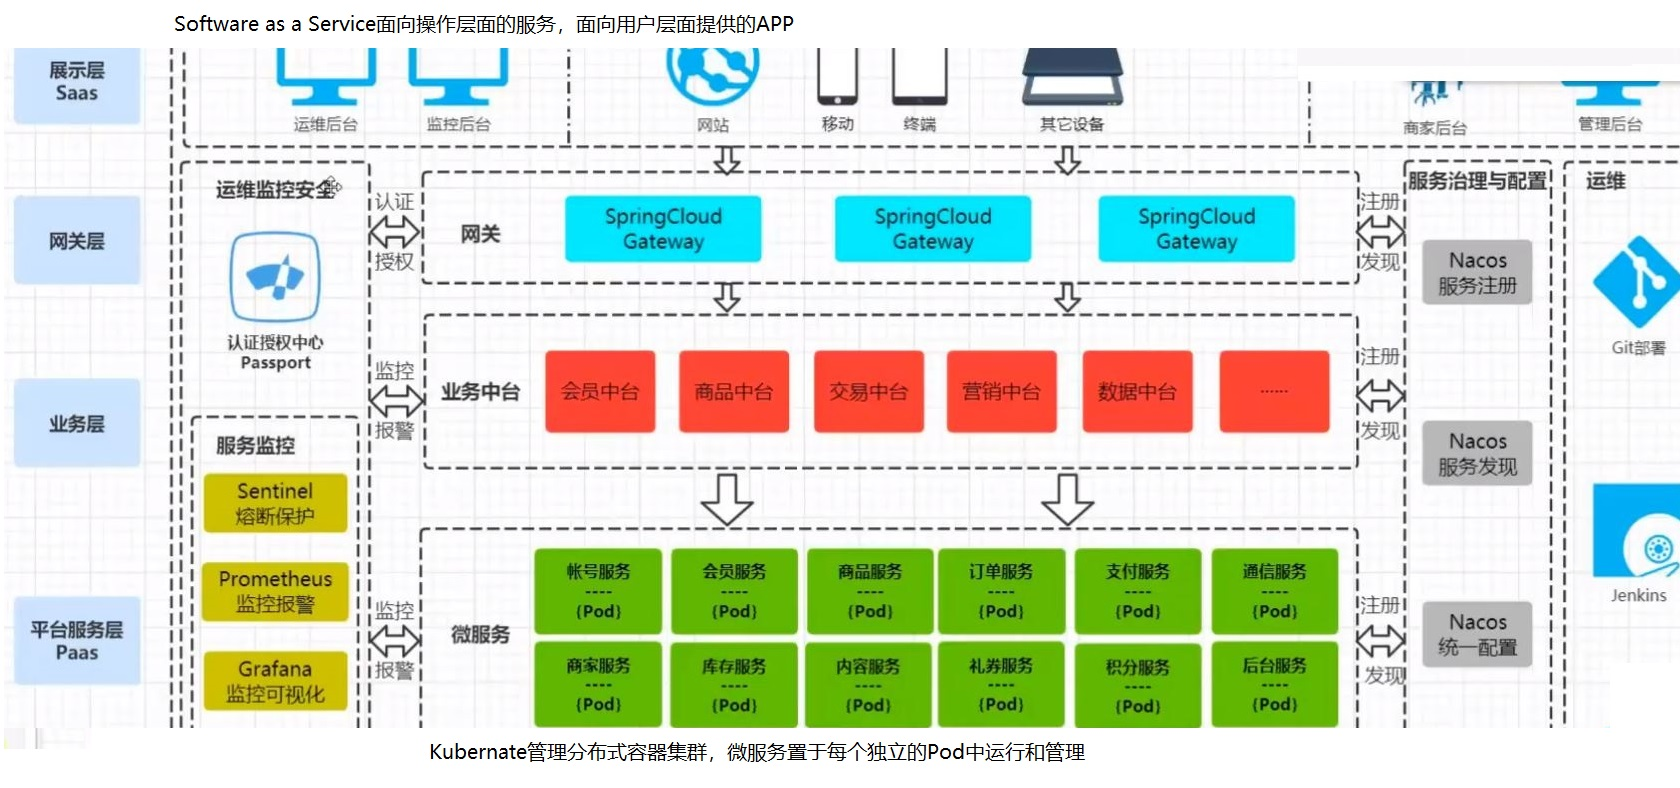
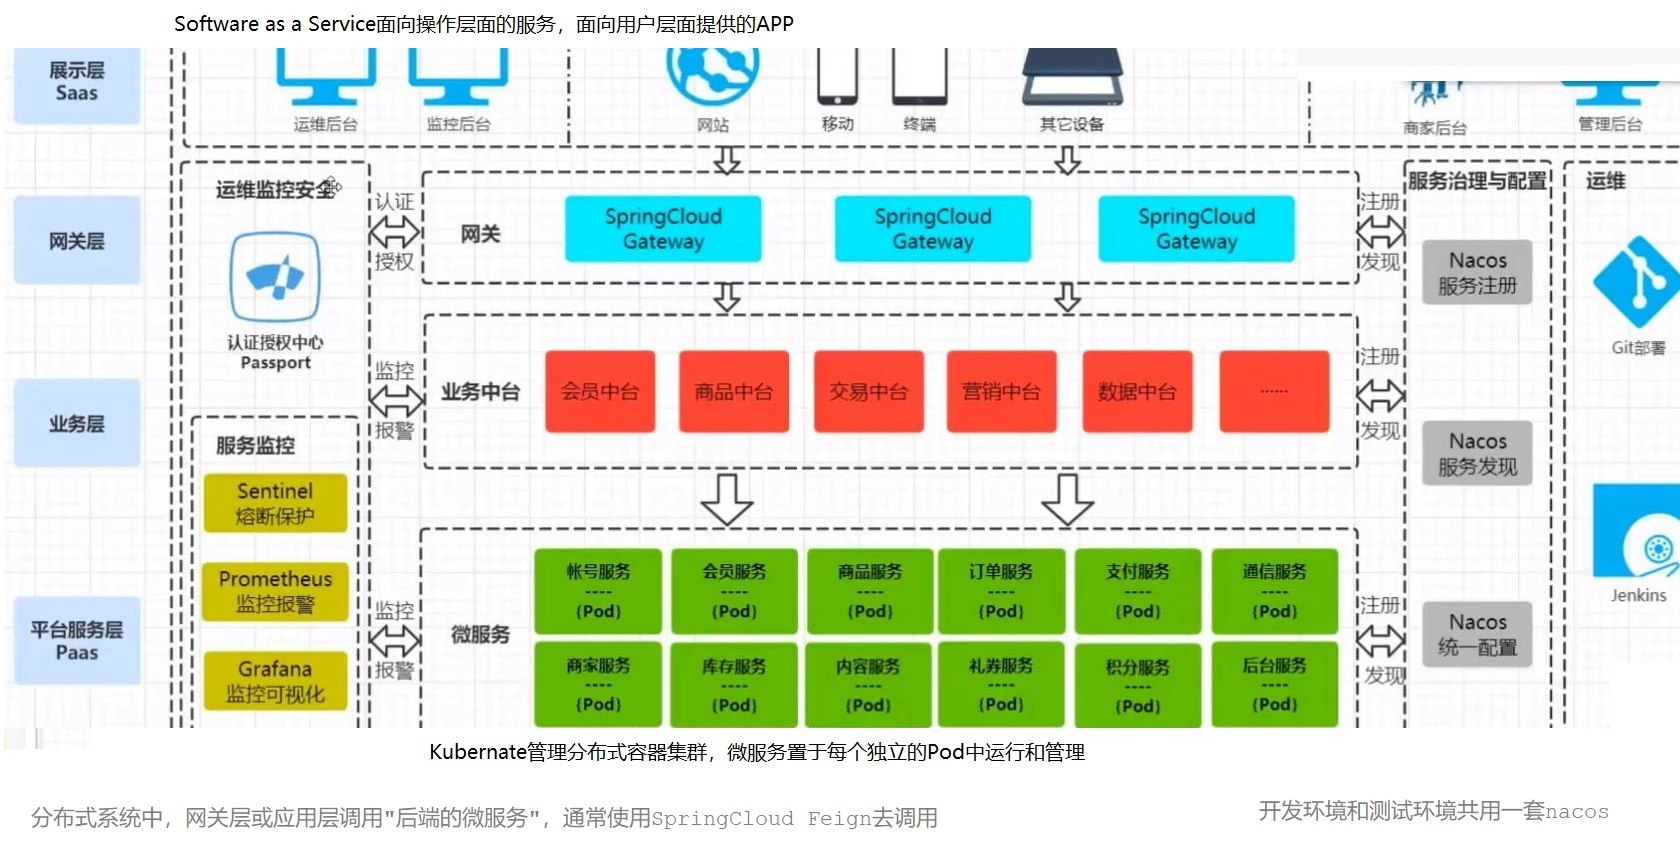
refresh spring cloud feigh clientÃ

diff --git a/spring-cloud-frameworks/spring-cloud-openfeign/src/main/java/com/springcloud/openfeign/SpringCloudFeignClientApplication.java b/spring-cloud-frameworks/spring-cloud-openfeign/src/main/java/com/springcloud/openfeign/SpringCloudFeignClientApplication.java
@@ -1,25 +1,15 @@
 package com.springcloud.openfeign;
 
-import com.springcloud.openfeign.authorization.AuthorizationFeignClient;
-import com.springcloud.openfeign.authorization.DefaultAuthorizationClient;
-import com.springcloud.openfeign.authorization.DefaultAuthorizationFeignClient;
+import com.springcloud.openfeign.client.authorization.AuthorizationFeignClient;
+import com.springcloud.openfeign.client.authorization.DefaultAuthorizationClient;
+import com.springcloud.openfeign.client.authorization.DefaultAuthorizationFeignClient;
 import org.springframework.beans.factory.annotation.Autowired;
 import org.springframework.boot.SpringApplication;
 import org.springframework.boot.autoconfigure.SpringBootApplication;
 import org.springframework.cloud.openfeign.EnableFeignClients;
-import org.springframework.cloud.openfeign.FeignClientBuilder;
-import org.springframework.context.ApplicationContext;
 import org.springframework.context.annotation.Bean;
 
-// TODO. Enable component scanning for interfaces that declare they are Feign clients
-//  通过添加注解来自动"注入"所有标记了@FeignClient("authz")注解class(interface)
-// 查看该类型的源码 FeignClientFactoryBean feignClientFactoryBean
-// https://docs.spring.io/spring-cloud-openfeign/docs/current/reference/html/
-
-// 分布式系统中，网关层或应用层调用"后端的微服务"，通常使用SpringCloud Feign去调用，简单方便
-// 开发环境和测试环境共用一套nacos
-// https://icode.best/i/03263743301620 feign根据环境动态指定服务名
-
+// @EnableFeignClients 注解自动"注入"所有标记@FeignClient注解的类型
 @SpringBootApplication
 @EnableFeignClients
 public class SpringCloudFeignClientApplication {
@@ -28,17 +18,10 @@ public class SpringCloudFeignClientApplication {
         SpringApplication.run(SpringCloudFeignClientApplication.class, args);
     }
 
-    // 创建指定类型的Feign Client, 通过调用方法来发送请求
-    private static void test(ApplicationContext applicationContext) {
-        FeignClientBuilder clientBuilder = new FeignClientBuilder(applicationContext);
-        DefaultAuthorizationClient feignClient = clientBuilder
-                .forType(DefaultAuthorizationClient.class, "testClient")
-                .url("base url for the request")
-                // .fallback()
-                .build();
-        feignClient.checkPermission("", "", "");
-    }
-
+    // TODO. 隐藏Request Mapping背后的逻辑
+    // 1. AuthorizationFeignClient会被自动注入到Spring IoC中
+    // 2. 通过Autowired从Spring IoC中获取bean之后赋值给自定义的类型实例，并注入
+    // 3. 在应用中可以直接通过DefaultAuthorizationClient.checkPermission()来调用背后隐藏的@PostMapping()
     @Bean
     @Autowired
     DefaultAuthorizationClient createDefaultAuthorizationClient(AuthorizationFeignClient feignClient) {

diff --git a/spring-cloud-frameworks/spring-cloud-openfeign/src/main/java/com/springcloud/openfeign/config/MyRouteTargeter.java b/spring-cloud-frameworks/spring-cloud-openfeign/src/main/java/com/springcloud/openfeign/config/MyRouteTargeter.java
@@ -1,0 +1,68 @@
+package com.springcloud.openfeign.config;
+
+import feign.Feign;
+import feign.Request;
+import feign.RequestTemplate;
+import feign.Target;
+import org.springframework.cloud.openfeign.FeignClientFactoryBean;
+import org.springframework.cloud.openfeign.FeignContext;
+import org.springframework.cloud.openfeign.Targeter;
+import org.springframework.core.env.Environment;
+
+public class MyRouteTargeter implements Targeter {
+
+    private Environment environment;
+
+    public MyRouteTargeter(Environment environment) {
+        this.environment = environment;
+    }
+
+    // 服务名以本字符串结尾的，会被置换为实现定位到环境
+    public static final String CLUSTER_ID_SUFFIX = "env";
+    // 新的服务名后缀名称需要从Environment中动态的获取
+    public static final String CLUSTER_ID_SUFFIX_NEW = "env-new";
+
+    @Override
+    public <T> T target(FeignClientFactoryBean factory,
+                        Feign.Builder feign,
+                        FeignContext context,
+                        Target.HardCodedTarget<T> target) {
+        return feign.target(new RouteTarget<>(target));
+    }
+
+    public static class RouteTarget<T> implements Target<T> {
+        private Target<T> realTarget;
+
+        public RouteTarget(Target<T> realTarget) {
+            super();
+            this.realTarget = realTarget;
+        }
+
+        @Override
+        public Class<T> type() {
+            return realTarget.type();
+        }
+
+        @Override
+        public String name() {
+            return realTarget.name();
+        }
+
+        @Override
+        public String url() {
+            String url = realTarget.url();
+            if (url.endsWith(CLUSTER_ID_SUFFIX)) {
+                url = url.replace(CLUSTER_ID_SUFFIX, CLUSTER_ID_SUFFIX_NEW);
+            }
+            return url;
+        }
+
+        @Override
+        public Request apply(RequestTemplate input) {
+            if (input.url().indexOf("http") != 0) {
+                input.target(url());
+            }
+            return input.request();
+        }
+    }
+}

diff --git a/spring-cloud-frameworks/spring-cloud-openfeign/src/main/java/com/springcloud/openfeign/config/OpenFeignClientConfiguration.java b/spring-cloud-frameworks/spring-cloud-openfeign/src/main/java/com/springcloud/openfeign/config/OpenFeignClientConfiguration.java
@@ -1,0 +1,52 @@
+package com.springcloud.openfeign.config;
+
+import feign.RequestInterceptor;
+import feign.RequestTemplate;
+import feign.auth.BasicAuthRequestInterceptor;
+import org.springframework.beans.factory.annotation.Autowired;
+import org.springframework.context.annotation.Bean;
+import org.springframework.context.annotation.Configuration;
+import org.springframework.core.env.Environment;
+
+@Configuration
+public class OpenFeignClientConfiguration {
+
+    @Autowired
+    private Environment environment;
+
+    // All the requests will contain the basic authentication header.
+    @Bean
+    public BasicAuthRequestInterceptor basicAuthRequestInterceptor() {
+        return new BasicAuthRequestInterceptor("username", "password");
+    }
+
+    // RequestInterceptor统一拦截请求来完成设置header等相关请求
+    // 实现URL基于环境的动态配置
+    @Bean
+    public RequestInterceptor requestInterceptor() {
+        return new RequestInterceptor() {
+            @Override
+            public void apply(RequestTemplate template) {
+                String url = template.url();
+                if (url.contains("$env")) {
+                    url = url.replace("$env", route(template));
+                    template.uri(url);
+                }
+                if (url.startsWith("//")) {
+                    url = "http:" + url;
+                    template.target(url);
+                    template.uri("");
+                }
+            }
+
+            private CharSequence route(RequestTemplate template) {
+                return environment.getProperty("feign.env");
+            }
+        };
+    }
+
+    @Bean
+    public MyRouteTargeter getRouteTargeter(Environment environment) {
+        return new MyRouteTargeter(environment);
+    }
+}

diff --git a/spring-cloud-frameworks/spring-cloud-openfeign/src/main/java/com/springcloud/openfeign/client/JsonPlaceHolderInterface.java b/spring-cloud-frameworks/spring-cloud-openfeign/src/main/java/com/springcloud/openfeign/client/JsonPlaceHolderInterface.java
@@ -1,17 +1,20 @@
-package com.springcloud.openfeign.demo;
+package com.springcloud.openfeign.client;
 
 import org.springframework.cloud.openfeign.FeignClient;
+import org.springframework.web.bind.annotation.GetMapping;
 import org.springframework.web.bind.annotation.PathVariable;
 import org.springframework.web.bind.annotation.RequestMapping;
 import org.springframework.web.bind.annotation.RequestMethod;
 
-// TODO. FeignClient客户端提供配置信息 ==> 和使用FeignClientBuilder构建的一致
-// 1. each Feign client is composed of a set of customizable components.
+// FeignClient客户端提供配置信息, 于FeignClientBuilder构建方式一致
+// 1. Each Feign client is composed of a set of customizable components.
 // 2. For each Feign client, a logger is created by default.
-// 3. (configuration = MyClientConfiguration.class) 可以自定义配置
-
 @FeignClient(value = "testClient", url = "https://localhost:8080/")
-public interface JSONPlaceHolderFeignClient {
+public interface JsonPlaceHolderInterface {
+
+    // 推荐使用指定类型的Mapping注解
+    @GetMapping(value = "/value")
+    String getValues();
 
     @RequestMapping(method = RequestMethod.GET, value = "/data")
     String getResponseData();

diff --git a/spring-cloud-frameworks/spring-cloud-openfeign/src/main/java/com/springcloud/openfeign/builder/MyDyFeignClientFactoryController.java b/spring-cloud-frameworks/spring-cloud-openfeign/src/main/java/com/springcloud/openfeign/builder/MyDyFeignClientFactoryController.java
@@ -1,0 +1,23 @@
+package com.springcloud.openfeign.builder;
+
+import org.springframework.beans.factory.annotation.Autowired;
+import org.springframework.web.bind.annotation.RequestMapping;
+import org.springframework.web.bind.annotation.RequestParam;
+import org.springframework.web.bind.annotation.RestController;
+
+@RestController
+@RequestMapping(value = "/query")
+public class MyDyFeignClientFactoryController {
+
+    @Autowired
+    DynamicFeignClientFactory<BaseRemoteApi> clientFactory;
+
+    // 在获取FeignClient的时候通过FeignClientBuilder动态的设置service名称
+    @RequestMapping("/userinfo")
+    public String query(@RequestParam(value = "gid") String gid) {
+        String service_location = "get correct service id";
+        BaseRemoteApi api = clientFactory.getFeignClient(BaseRemoteApi.class, service_location);
+        return api.info(gid);
+    }
+
+}

diff --git a/spring-cloud-frameworks/spring-cloud-openfeign/src/main/java/com/springcloud/openfeign/client/MyCallbackInterface.java b/spring-cloud-frameworks/spring-cloud-openfeign/src/main/java/com/springcloud/openfeign/client/MyCallbackInterface.java
@@ -1,4 +1,4 @@
-package com.springcloud.openfeign.client.callback;
+package com.springcloud.openfeign.client;
 
 import org.springframework.cloud.openfeign.FeignClient;
 import org.springframework.web.bind.annotation.RequestMapping;
@@ -7,10 +7,7 @@ import org.springframework.web.bind.annotation.RequestMethod;
 // fallback: a default code path that is executed when the circuit is open or there is an error.
 // 1. set the fallback attribute to the class name that implements the fallback.
 // 2. declare your implementation as a Spring bean
-@FeignClient(
-        name = "test",
-        url = "http://localhost:${server.port}/",
-        fallback = MyCallback.class)
+@FeignClient(name = "test", url = "http://localhost:${server.port}/", fallback = MyCallback.class)
 public interface MyCallbackInterface {
 
     @RequestMapping(method = RequestMethod.GET, value = "/hello")

diff --git a/spring-cloud-frameworks/spring-cloud-openfeign/src/main/java/com/springcloud/openfeign/client/authorization/AuthorizationFeignClient.java b/spring-cloud-frameworks/spring-cloud-openfeign/src/main/java/com/springcloud/openfeign/client/authorization/AuthorizationFeignClient.java
@@ -1,4 +1,4 @@
-package com.springcloud.openfeign.authorization;
+package com.springcloud.openfeign.client.authorization;
 
 import org.springframework.cloud.openfeign.FeignClient;
 import org.springframework.http.MediaType;
@@ -10,11 +10,10 @@ import org.springframework.web.bind.annotation.RequestHeader;
 @FeignClient("authz")
 public interface AuthorizationFeignClient {
 
-    // TODO. produces指要提供的数据格式，consumes指返回的消费数据格式
+    // produces指要提供的数据格式，consumes指返回的消费数据格式
     @PostMapping(path = "/permissions/check",
             consumes = MediaType.APPLICATION_JSON_VALUE,
             produces = MediaType.APPLICATION_JSON_VALUE)
     boolean checkPermission(@RequestHeader("Authorization") String authorizationHeader,
                             @RequestBody String permissionRequest);
-
 }

diff --git a/spring-cloud-frameworks/spring-cloud-openfeign/src/main/java/com/springcloud/openfeign/config/FooFeignClient.java b/spring-cloud-frameworks/spring-cloud-openfeign/src/main/java/com/springcloud/openfeign/config/FooFeignClient.java
@@ -1,0 +1,19 @@
+package com.springcloud.openfeign.config;
+
+import org.springframework.cloud.openfeign.FeignClient;
+import org.springframework.web.bind.annotation.GetMapping;
+import org.springframework.web.bind.annotation.PathVariable;
+
+// 基于不同的环境Env动态的修改请的URL路径 ?
+// 1. 通过RequestInterceptor拦截器来统一设置，对于上线的URL成本较大
+// 2. 通过重写RouteTargeter来实现，必须考虑版本的约束
+// 3. 使用DynamicFeignClientFactory动态的构建出指定的feignClient
+@FeignClient(name = "feign-provider")
+public interface FooFeignClient {
+
+    @GetMapping(value = "//feign-provider-$env/foo/{username}")
+    String foo1(@PathVariable("username") String username);
+
+    @GetMapping(value = "/foo/{username}")
+    String foo2(@PathVariable("username") String username);
+}

diff --git a/spring-cloud-frameworks/spring-cloud-openfeign/src/main/java/com/springcloud/openfeign/builder/BaseFeignClientBuilder.java b/spring-cloud-frameworks/spring-cloud-openfeign/src/main/java/com/springcloud/openfeign/builder/BaseFeignClientBuilder.java
@@ -1,0 +1,18 @@
+package com.springcloud.openfeign.builder;
+
+import com.springcloud.openfeign.client.authorization.DefaultAuthorizationClient;
+import org.springframework.cloud.openfeign.FeignClientBuilder;
+import org.springframework.context.ApplicationContext;
+
+public class BaseFeignClientBuilder {
+
+    // 创建指定类型的Feign Client, 通过调用方法来发送请求
+    private static void test(ApplicationContext applicationContext) {
+        FeignClientBuilder clientBuilder = new FeignClientBuilder(applicationContext);
+        DefaultAuthorizationClient feignClient = clientBuilder
+                .forType(DefaultAuthorizationClient.class, "testClient")
+                .url("base url for the request")
+                .build();
+        feignClient.checkPermission("", "", "");
+    }
+}

diff --git a/spring-cloud-frameworks/spring-cloud-openfeign/src/main/java/com/springcloud/openfeign/builder/DynamicFeignClientFactory.java b/spring-cloud-frameworks/spring-cloud-openfeign/src/main/java/com/springcloud/openfeign/builder/DynamicFeignClientFactory.java
@@ -1,0 +1,19 @@
+package com.springcloud.openfeign.builder;
+
+import org.springframework.cloud.openfeign.FeignClientBuilder;
+import org.springframework.context.ApplicationContext;
+import org.springframework.stereotype.Component;
+
+@Component
+public class DynamicFeignClientFactory<T> {
+
+    private FeignClientBuilder feignClientBuilder;
+
+    public DynamicFeignClientFactory(ApplicationContext appContext) {
+        this.feignClientBuilder = new FeignClientBuilder(appContext);
+    }
+
+    public T getFeignClient(final Class<T> type, String serviceId) {
+        return this.feignClientBuilder.forType(type, serviceId).build();
+    }
+}

diff --git a/spring-cloud-frameworks/spring-cloud-openfeign/src/main/java/com/springcloud/openfeign/retryer/RetryableFeignClient.java b/spring-cloud-frameworks/spring-cloud-openfeign/src/main/java/com/springcloud/openfeign/retryer/RetryableFeignClient.java
@@ -1,10 +1,10 @@
-package com.springcloud.openfeign.client;
+package com.springcloud.openfeign.retryer;
 
 import org.springframework.cloud.openfeign.FeignClient;
 
 import java.lang.annotation.*;
 
-// 封装了OpenFeign的配置和参数的使用
+// 封装OpenFeign的配置和参数的使用
 @Target(ElementType.TYPE)
 @Retention(RetentionPolicy.RUNTIME)
 @FeignClient

diff --git a/spring-cloud-frameworks/spring-cloud-openfeign/src/main/java/com/springcloud/openfeign/retryer/NativeRetryer.java b/spring-cloud-frameworks/spring-cloud-openfeign/src/main/java/com/springcloud/openfeign/retryer/NativeRetryer.java
@@ -1,4 +1,4 @@
-package com.springcloud.openfeign.client.retryer;
+package com.springcloud.openfeign.retryer;
 
 import feign.RetryableException;
 import feign.Retryer;
@@ -10,7 +10,6 @@ public class NativeRetryer implements feign.Retryer {
 
     @Override
     public void continueOrPropagate(RetryableException e) {
-
     }
 
     @Override
